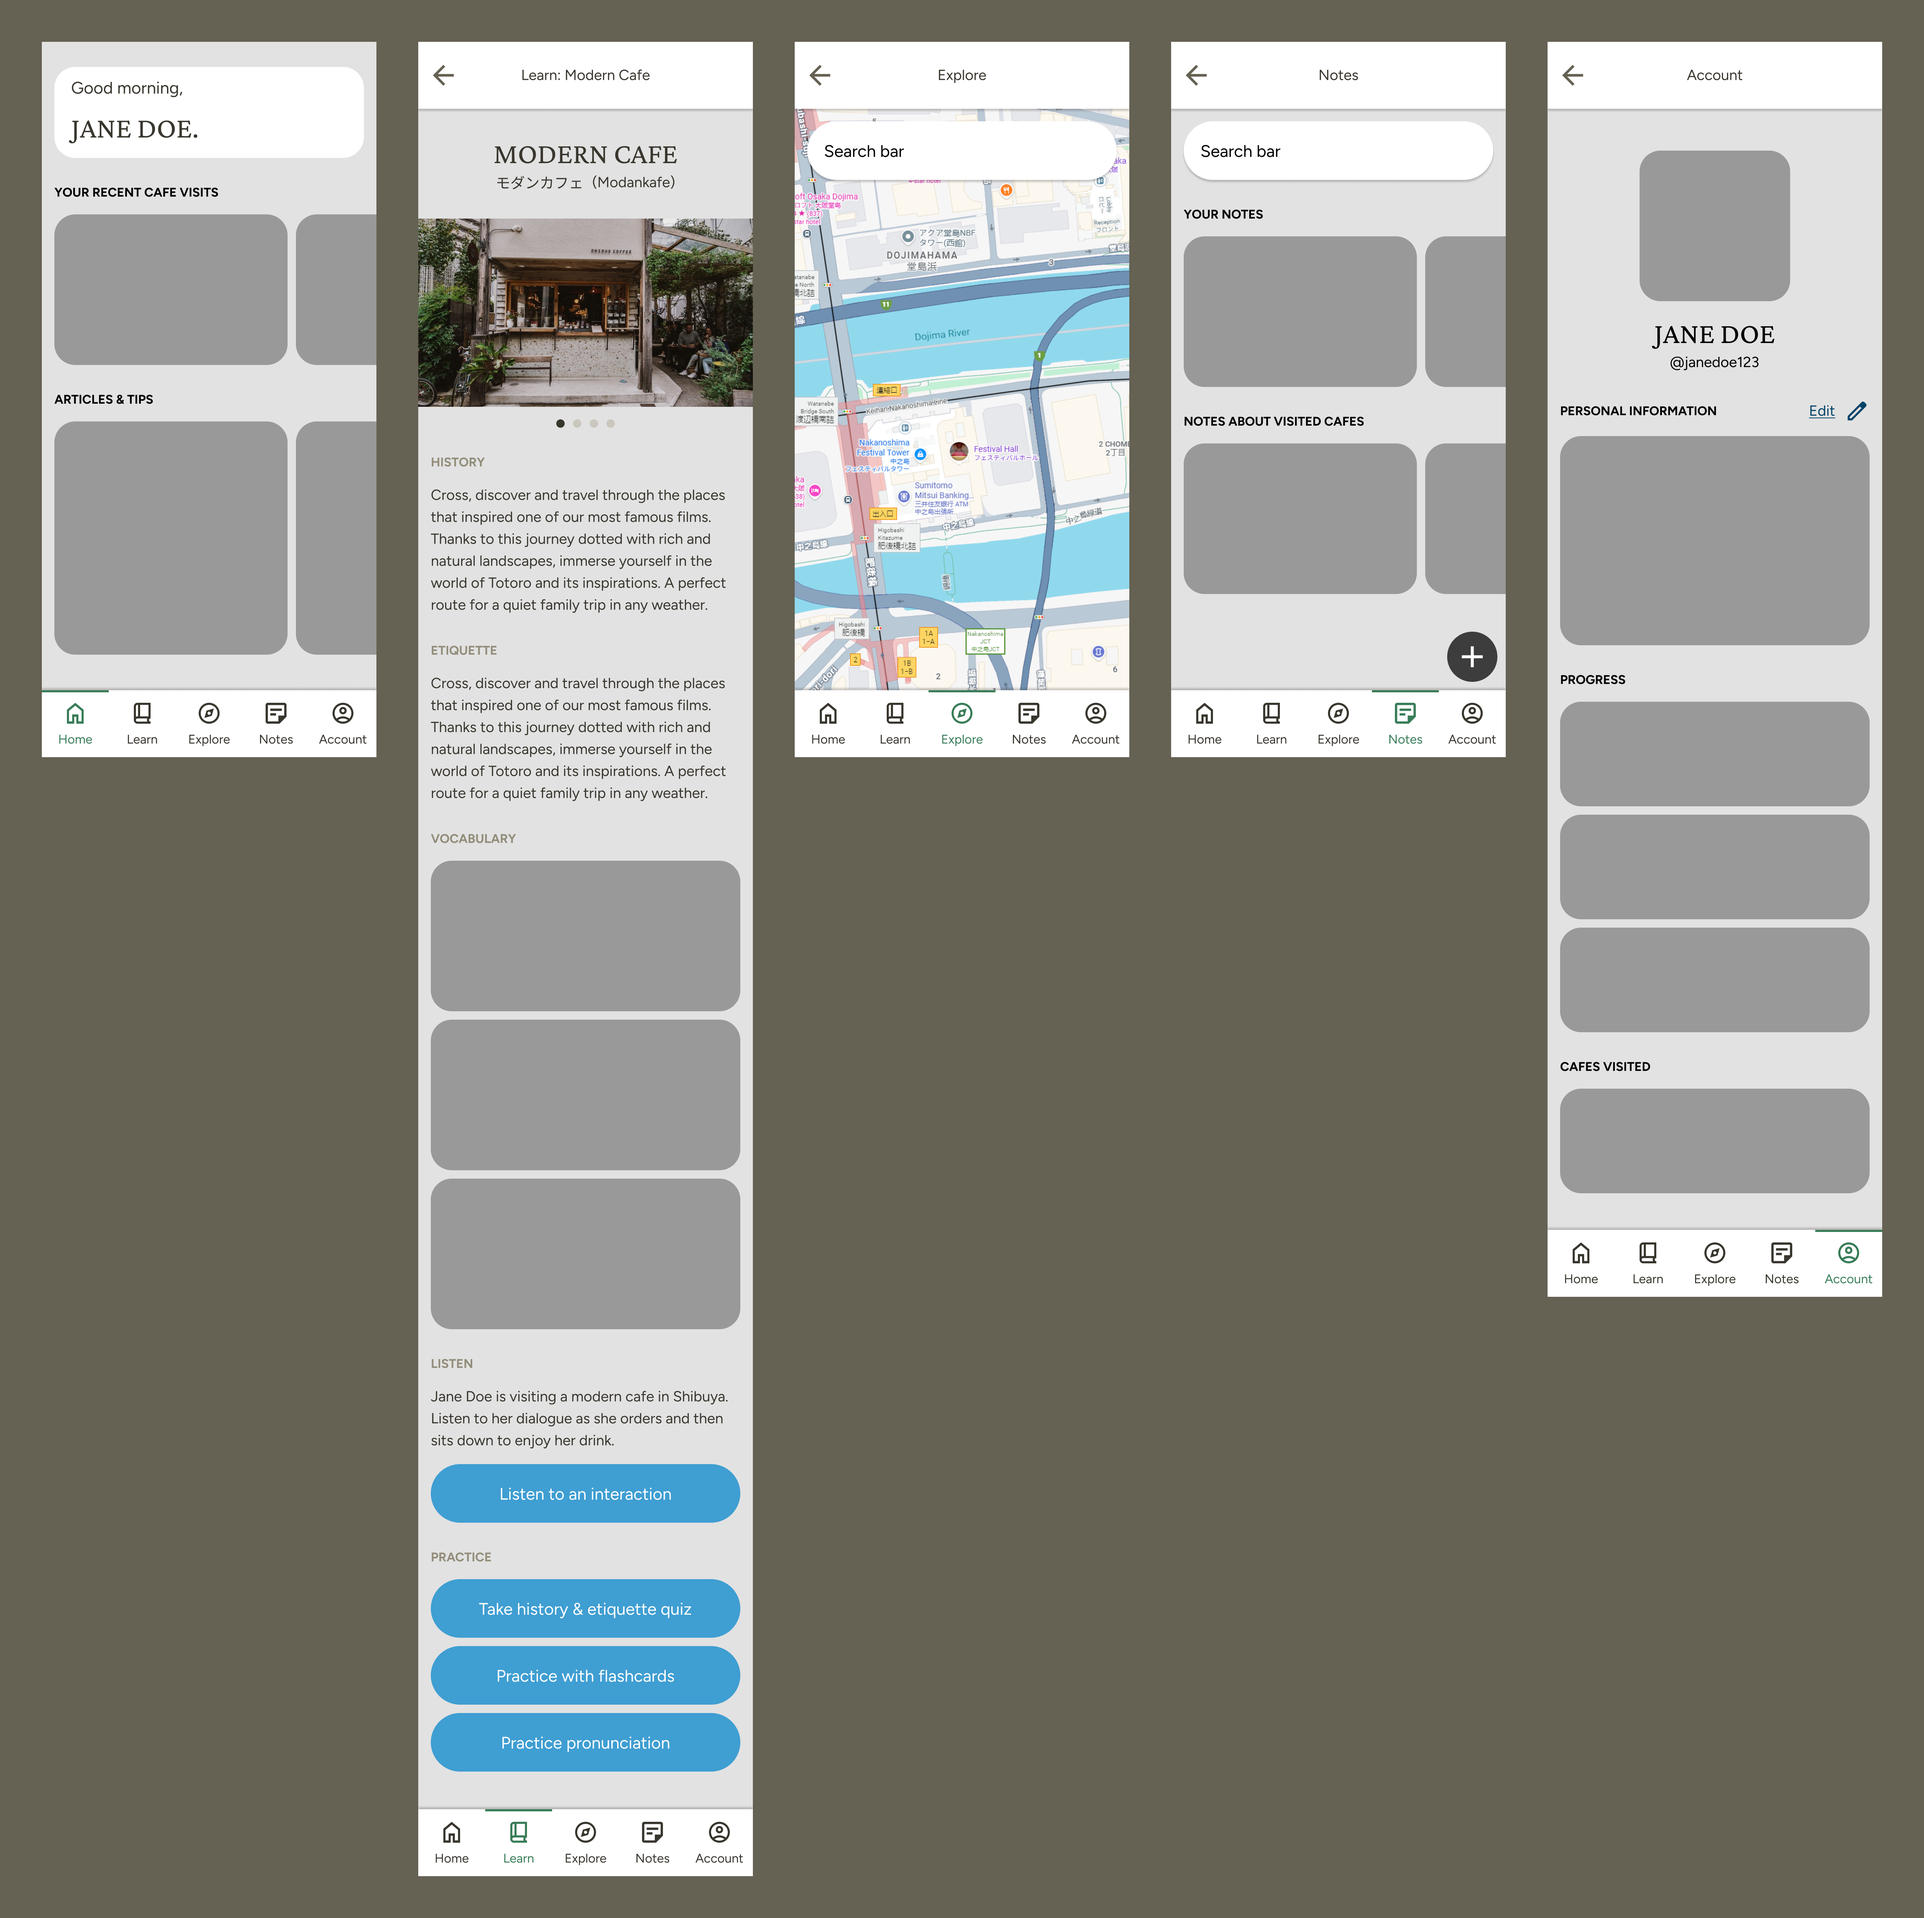
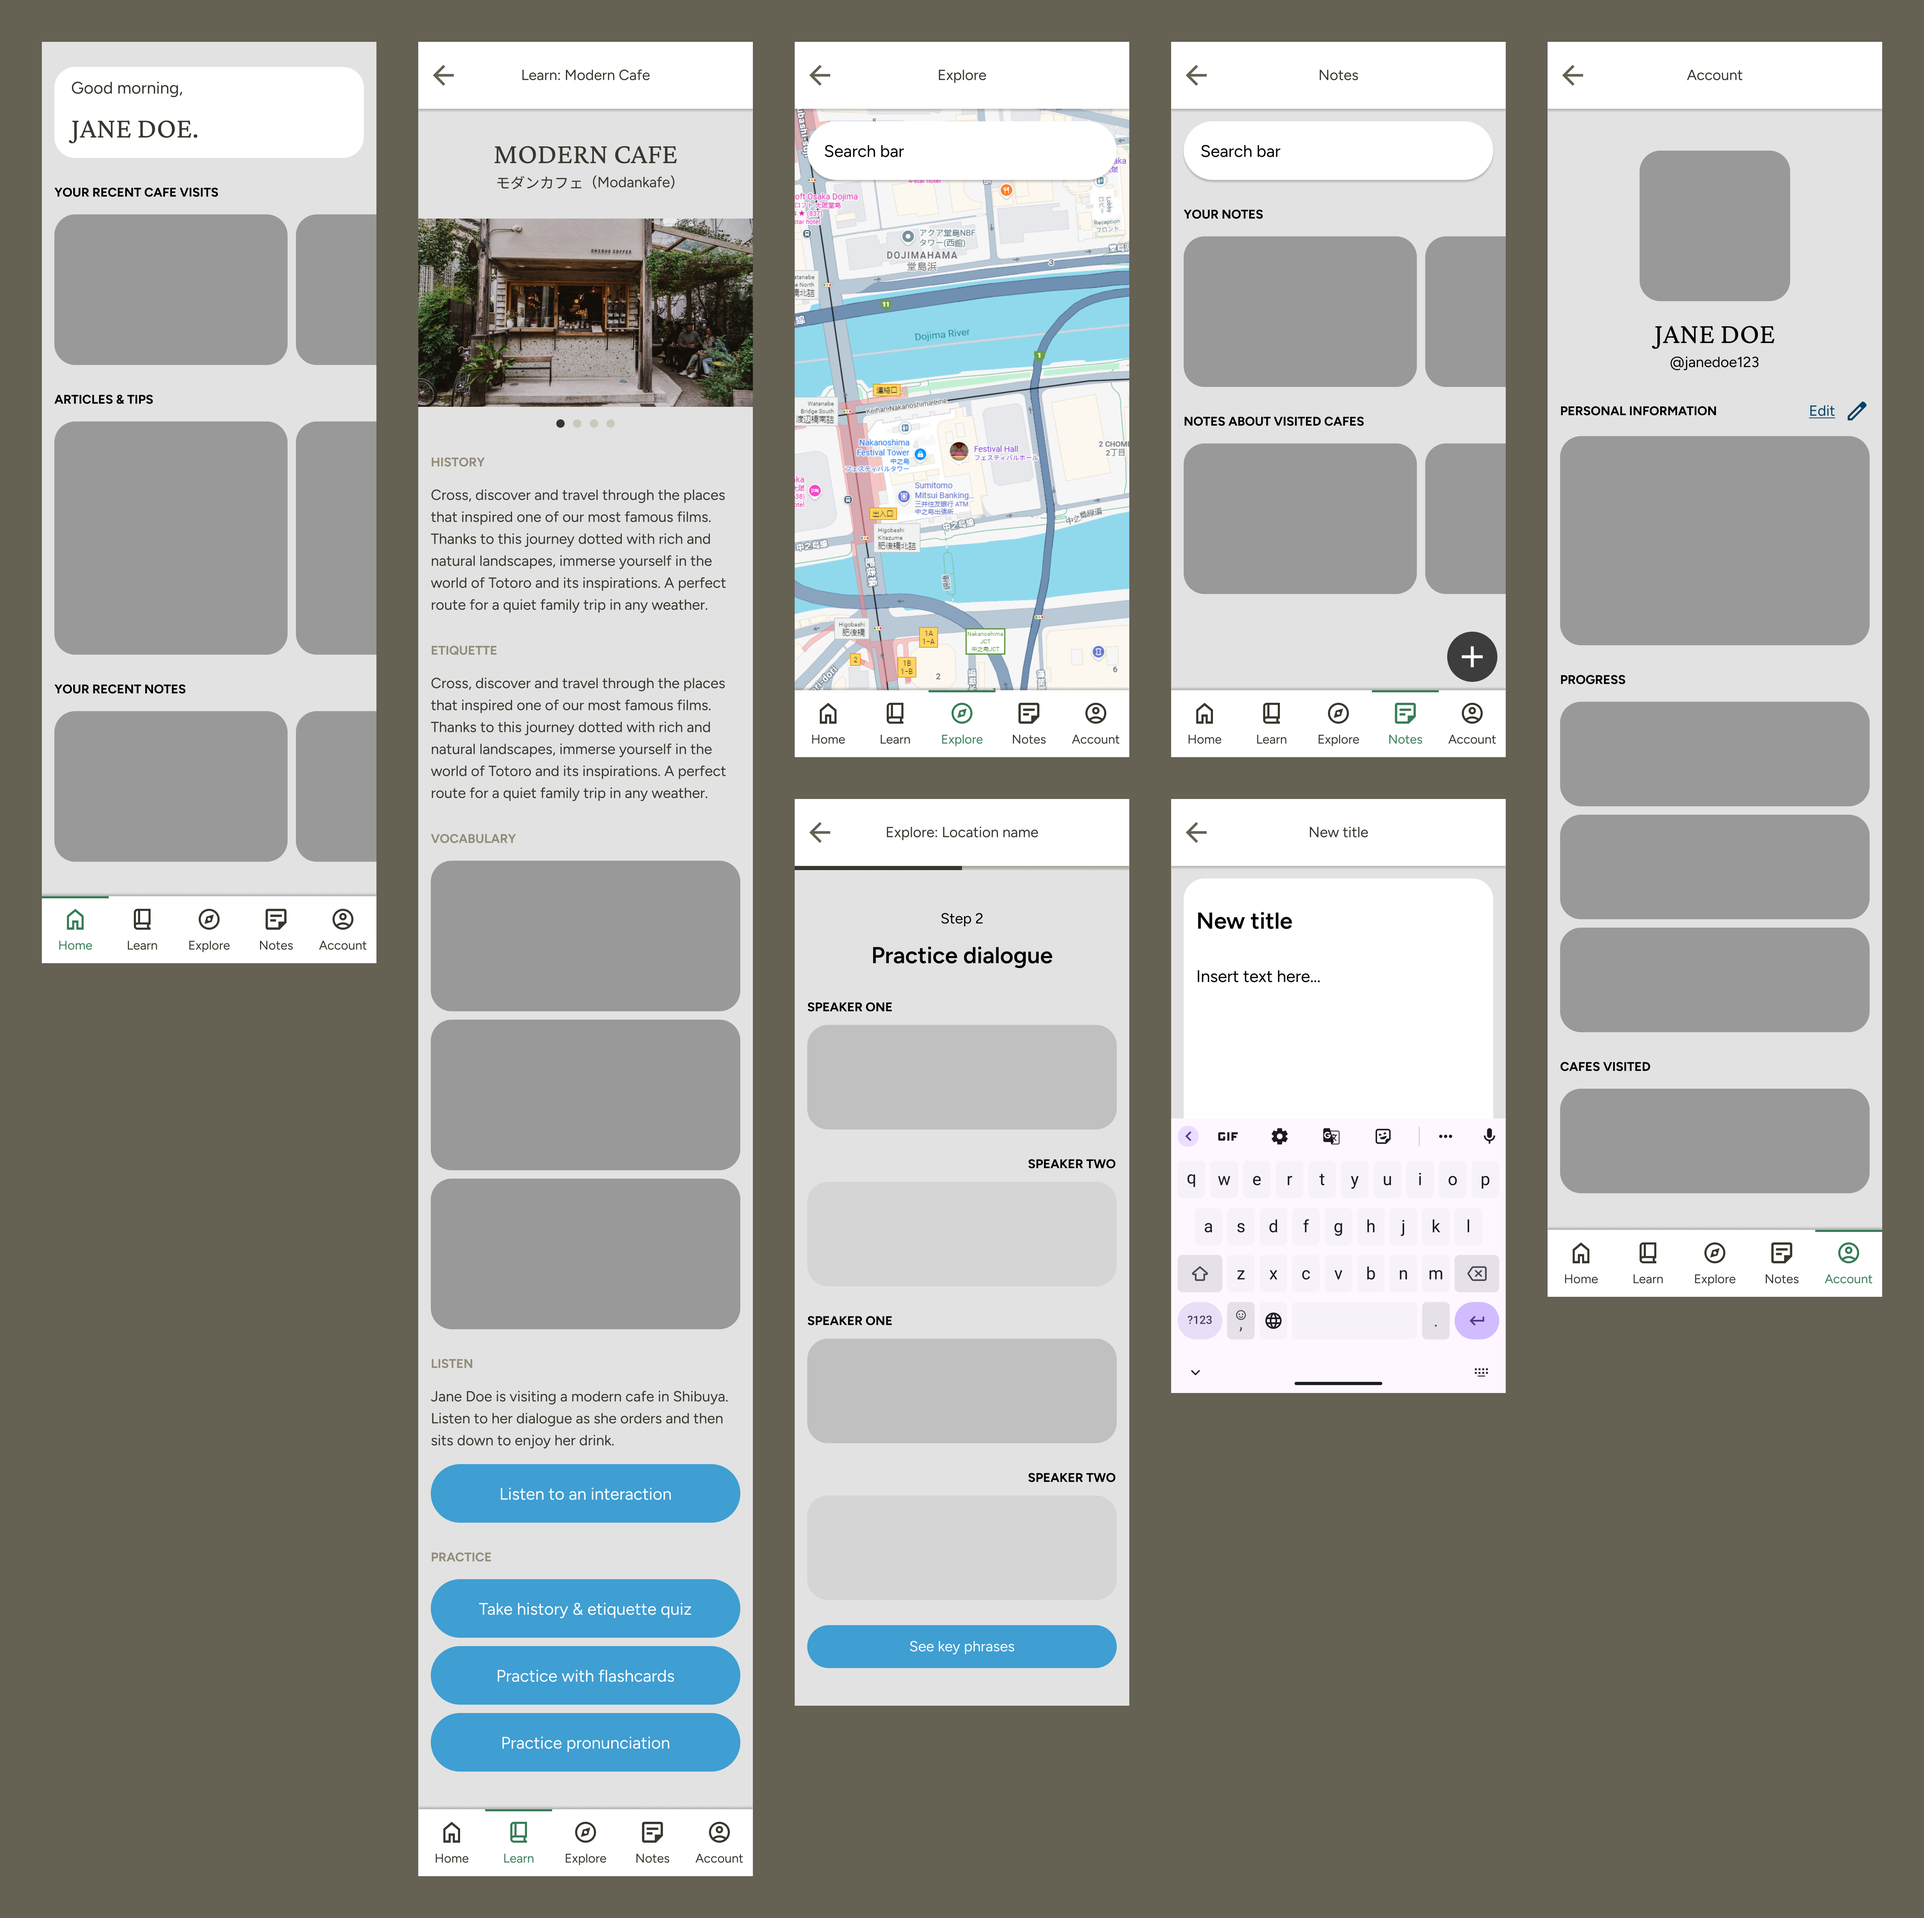
updated

Changed region(s): [[0.4051, 0.404, 0.8101, 0.9013], [0.0, 0.3419, 0.2181, 0.5284]]

diff --git a/src/pages/AboutMe.js b/src/pages/AboutMe.js
@@ -11,7 +11,8 @@ export const AboutMe = ({}) => {
     const education1 = <TextContainer title={'COLUMBUS COLLEGE OF ART & DESIGN'} subtitle={'2025 - 2027'} text={'M.P.S. in User Experience Design'} />;
     const education2 = <TextContainer title={'BUSINESS ANALYST AT UNIVERSITY OF ILLINOIS AT URBANA-CHAMPAIGN'} subtitle={'2016 - 2020'} text={'B.S. in Computer Engineering with a Minor in Art & Design'}/>;
     const skills1 = <TextContainer title={'DESIGN'} text={'Figma, Adobe Illustrator, Adobe InDesign, Adobe XD, Drawing, Painting, Photography'} />;
-    const skills2 = <TextContainer title={'SOFTWARE'} text={'JavaScript/TypeScript, HTML/CSS/SCSS, React, Node.js, GitHub, Jira/Confluence, Postman'}/>;
+    const skills2 = <TextContainer title={'RESEARCH'} text={'User Interviewing, Affinity Diagramming, Journey Mapping, Persona Development'} />;
+    const skills3 = <TextContainer title={'SOFTWARE'} text={'JavaScript/TypeScript, HTML/CSS/SCSS, React, Node.js, GitHub, Jira/Confluence, Postman'}/>;
     const quote4 = <QuoteContainer title={'-MARK FAMINI, SOFTWARE ENGINEER'} text={'"Uma is our multi-talented/scrum master/software engineer/designer. She was a big asset to our team, she\'s not afraid to wear multiple hats. She started on our team as a fresh graduate, and we saw her blossom into her role, very technical person, prolific with the arts and a lot of leadership potential. She is very easy to work with and very easy to talk to."'}/>
     const quote3 = <QuoteContainer title={'-ROHAN PATEL, SOFTWARE ENGINEER'} text={'"She was always willing to work together on complicated tickets and was my go to person to ask for any front-end related work. She was always approachable and willing to help. Whatever team that has her next is lucky to have a developer with such a keen eye for designs and the ability to implement them."'}/>
     const quote2 = <QuoteContainer title={'-MADISON MATECUN, PRODUCT DESIGNER'} text={'"As a developer, Uma has a really incredible design-oriented mindset. When I was partnered with her I could always count on her to fill in the blanks of an early-stage design with sensible and thoughtful interactions. She is reliable and accountable— picking up work when others are out on vacation, or filling in for the scrummaster (and doing a great job at it!). Her versatility is unmatched and she is an invaluable asset to any team."'}/>
@@ -27,6 +28,7 @@ export const AboutMe = ({}) => {
         <div className='sectionContainer'>
             {skills1}
             {skills2}
+            {skills3}
         </div>;
 
     const allQuotes =

diff --git a/src/pages/KohiToKocha.js b/src/pages/KohiToKocha.js
@@ -28,8 +28,8 @@ export const KohiToKocha = ({}) => {
     const content = 'This app is made for learning about Japanese culture and language through cafe settings. It will cover different types of cafes and their history, vocabulary, phrases and expressions, and etiquette. The explore portion of the app allows you to build up knowledge and confidence of Japanese cafes without the fear of making mistakes; this part of the app will be applicable to anyone all over the world as it will be a fictional setting. The planning portion of the app will help you prepare for real-world interactions; this part of the app is used for planning visits and preparing dialogues for cafes in Japan.';
     const titleContent = isLarge ? <LargeContent title={'KŌHĪ TO KŌCHA DESIGN'} content={<p>{content}</p>}/> : <SmallContent title={'KŌHĪ TO KŌCHA DESIGN'} content={<p>{content}</p>}/>;
 
-    const moodboard = <PlainImage plainImageProps={{imagePath: KohiToKochaMoodboard}}/>;
-    const flowchart = <PlainImage plainImageProps={{imagePath: KohiToKochaFlowchart}}/>;
+    const moodboard = <PlainImage plainImageProps={{imagePath: KohiToKochaMoodboard, caption: 'Some of my main inspirations were lush greenery and blue skies, especially how it is portrayed in Studio Ghibli films, and the openness of Nintendo games, like Animal Crossing.'}}/>;
+    const flowchart = <PlainImage plainImageProps={{imagePath: KohiToKochaFlowchart, caption: 'There were four basic tabs for the app: Learn, Explore, Notes, and Account. The Notes and Account tab would follow the typical format of other Notes and Account UIs, but the Learn and Explore tabs were new. This is the basic flow I wanted to follow:\n\nLearn:\n1. Choose a café type: Modern, Themed, Kissaten, Bakery\n2. Learn: History, Vocabulary, Phrases/Expressions, Etiquette\n3. Interact\n4. Earn Points\n\nExplore:\n1. Choose a café location\n2. Get a summary of the cafe\n3. See the menu\n4. Plan order/dialogue\n5. Notes on experience'}}/>;
     const colors = <PlainImage plainImageProps={{imagePath: KohiToKochaColors}}/>;
     const typography = <PlainImage plainImageProps={{imagePath: KohiToKochaTypography}}/>;
     const wireframes = <PlainImage plainImageProps={{imagePath: KohiToKochaWireframes}}/>;
